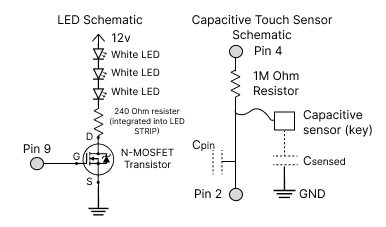
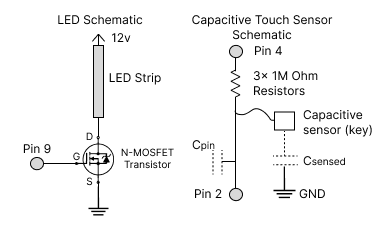
new push uhhhh

Changed region(s): [[0.2176, 0.185, 0.4974, 0.6167], [0.6528, 0.3084, 0.8394, 0.4317]]

diff --git a/a5.html b/a5.html
@@ -25,14 +25,17 @@
     </p>
     <br><br>
     <p>For the Current across the transistor, we can calculate the current by considering our voltage and resistance.
-        White LEDS ~3.3 voltage drop
-        3 x 3.3 = 9.9
-        Power supply 12v, so 2.1v drop across resistor
-        Resistor marked 241, so 24x10=240 ohms
-        2.1/240 = 0.00875A, 8.75mA per segment
-        16.4 ft of LEDs with 5 segments per foot.
-        16.4 ft x 5 segments x 8.75mA = 717.5 mA.
-        Therefore, 717.5mA is the max current across the transistor
+        <pre>
+            White LEDS ~3.3 voltage drop
+            3 x 3.3 = 9.9
+            Power supply 12v, so 2.1v drop across resistor
+            Resistor marked 241, so 24x10=240 ohms
+            2.1/240 = 0.00875A, 8.75mA per segment
+            16.4 ft of LEDs with 5 segments per foot.
+            16.4 ft x 5 segments x 8.75mA = 717.5 mA.
+            </pre>
+        <p>Therefore, 717.5mA is the max current across the transistor. 
+            This is fine considering the N-MOSFET data sheet shows this transistor can handle current up to 220A.</p>
         </p>
     <br>
     </div>
@@ -48,11 +51,47 @@
     <h2>Questions</h2>
     1: This is the datasheet for the n-mosfet transistor: https://www.diodes.com/assets/Datasheets/DMT6009LCT.pdf Links to an external site. 
     What is the absolute maximum amount of current between pins 2 and 3?
+    According to this datasheet, the maximum current through the drain is 37.2 A, however the highest amount of current that can safely flow throauh a n-MOSFET's internal body diode before causing damage is 80 A.
     
     2: Draw a schematic for a circuit with using at least your arduino, a DC motor, a flyback diode, and capacitors between power and ground. Find parts with datasheets you could use for each of these schematic components.
+    <figure>
+        <img src="A5/Question 2 Schematic.png">
+    </figure>
+    <p> DC Motor: https://cdn.sparkfun.com/datasheets/Robotics/RP6%20motor%20TFK280SC-21138-45.pdf
+        Flyback diode: https://www.ti.com/lit/ds/symlink/lm5180-q1.pdf?ts=1739844289471&ref_url=https%253A%252F%252Fwww.google.com%252F 
+        Capacitor:https://www.mouser.com/datasheet/2/293/e_gxc-3472314.pdf </p>
 
-    3: Here is the datasheet for the L293D chip: https://www.ti.com/product/L293DLinks to an external site.
-    Draw a schematic using at least your arduino, this chip, and two motors. Write (pseudo) code that shows how you would move the motors both forward, both back, then one forward one back, and one back then forward.</pre>
+    3: Here is the datasheet for the L293D chip: https://www.ti.com/product/L293D Links to an external site.
+    Draw a schematic using at least your arduino, this chip, and two motors. Write (pseudo) code that shows how you would move the motors both forward, both back, then one forward one back, and one back then forward.
+    <figure>
+        <img src="A5/Question 3 Schematic.png">
+    </figure>
+        <pre>
+            Loop {
+                digitalWrite(1, HIGH); // enable motor 1
+                digitalWrite(2, HIGH); // enable motor 2
+                digitalWrite(5, HIGH); 
+                digitalWrite(6, LOW); // Moves motor 1 forward
+                digitalWrite(10, HIGH);
+                digitalWrite(11, LOW); // Moves motor 2 forward
+                delay(1000); // wait one second 
+                digitalWrite(5, LOW); 
+                digitalWrite(6, HIGH); // Moves motor 1 backward
+                digitalWrite(10, LOW);
+                digitalWrite(11, HIGH); // Moves motor 2 backward
+                delay(1000); // wait one second
+                digitalWrite(5, LOW); 
+                digitalWrite(6, HIGH); // Moves Motor 
+                digitalWrite(10, LOW);
+                digitalWrite(11, HIGH);
+                delay(1000) // wait one second
+                digitalWrite(5, LOW);
+                digitalWrite(6, HIGH);
+                digitalWrite(10, LOW);
+                digitalWrite(11, HIGH);
+            }
+        </pre>
+</pre>
   <br>
   <div class="CodeSnippet">
     <h2>Code Snippet</h2>
@@ -62,25 +101,25 @@
             int targetBrightness = 0;
             int sensorMin = 5000; // arbitrary high number
             int sensorMax = 0;
-            CapacitiveSensor   cs_4_2 = CapacitiveSensor(4,2);    	// 1 megohm resistor between pins 4 & 2, pin 2 is sensor pin, add wire, metal thing
+            CapacitiveSensor   cs_4_2 = CapacitiveSensor(4,2);    	// 3 megohm resistor between pins 4 & 2, pin 2 is sensor pin, add wire, metal thing
             
             void setup() {
-              pinMode(9, OUTPUT); // attaches the servo on pin 9 to the servo object
+              pinMode(9, OUTPUT); // attaches the transistor gate limiting current from the LED to pin 9 on Arduino
               cs_4_2.set_CS_AutocaL_Millis(0xFFFFFFFF); 	// turn off autocalibrate on channel 1 - just as an example
               Serial.begin(9600);
             
-             while (millis() < 5000) { // calibrates photoresistor sensor max and min for the first 5 seconds
+             while (millis() < 5000) { // calibrates capactive sensor max and min for the first 5 seconds
               long start = millis();
-                 long total1 =  cs_4_2.capacitiveSensor(30);
+                 long total1 =  cs_4_2.capacitiveSensor(30); Takes reading of the capacitive sensor
               
                  // Serial.print(millis() - start);    	// check on performance in milliseconds
                 // Serial.print("\t");             
-                      int sensorValue = total1; // checks the voltage measurement between photo resistor and second resistor.
-                      if (sensorValue > sensorMax) { // if sensor reading is higher than current max reading
+                      int sensorValue = total1; // stores the reading from the Capacitive sensor.
+                      if (sensorValue > sensorMax) { // if sensor reading is higher than current maximum reading
                         sensorMax = sensorValue; // set max reading to current reading
                       }
-                      if (sensorValue < sensorMin) {
-                        sensorMin = sensorValue;
+                      if (sensorValue < sensorMin) { // if sensor reading is higher than current minimum reading
+                        sensorMin = sensorValue; // set min reading to current reading
                       }
                       delay(10); // adds some time before sensor readings 
                       Serial.println("Calibrating... TOUCH RAPIDLY"); // Lets user know device is still calibrating
@@ -98,25 +137,25 @@
                 long total1 =  cs_4_2.capacitiveSensor(30);
                 // Serial.print(millis() - start);    	// check on performance in milliseconds
                 // Serial.print("\t");                	// tab character for debug window spacing 
-              targetBrightness = map(total1, sensorMin, sensorMax, 0, 255);
-              targetBrightness = constrain(targetBrightness, 0, 255);
-              Serial.println(targetBrightness);   
-              if (targetBrightness < 25) {
+              targetBrightness = map(total1, sensorMin, sensorMax, 0, 255); //maps the read signal, using the calibrated sensor range mapping onto a 0-255 range compatible with analogWrite
+              targetBrightness = constrain(targetBrightness, 0, 255); // Constrains the value, incase it reads out of range after mapping.
+              Serial.println(targetBrightness);   // prints targetBrightness to serial monitor for debuging 
+              if (targetBrightness < 25) {  // Creates Threshold for target brightness, so that low readings do not make the LED strip flicker.
                 targetBrightness = 0;
-              } else if (targetBrightness > 190) {
+              } else if (targetBrightness > 190) { // Creates Threshold for target brightness, so that high readings do not make the LED strip flicker.
                 targetBrightness = 255;
               }
-              while (currentBrightness < targetBrightness) {
+              while (currentBrightness < targetBrightness) { // fades the LED up to the target brightness
                   currentBrightness++;
-                  analogWrite(9, currentBrightness);
-                  delay(3);
+                  analogWrite(9, currentBrightness); 
+                  delay(3); // Controls the speed of the fade
               }
-              while (currentBrightness > targetBrightness) {
+              while (currentBrightness > targetBrightness) { // fades the LED down to the target brightness
                   currentBrightness--;
                   analogWrite(9, currentBrightness);
-                  delay(3);
+                  delay(3); // Controls the speed of fade
               }
-              analogWrite(9, currentBrightness);
+              analogWrite(9, currentBrightness); // edge case incase currentbrightness is equal to target brightness.
               delay(20); // arbitrary delay to limit data to serial port
             }                      	
             
